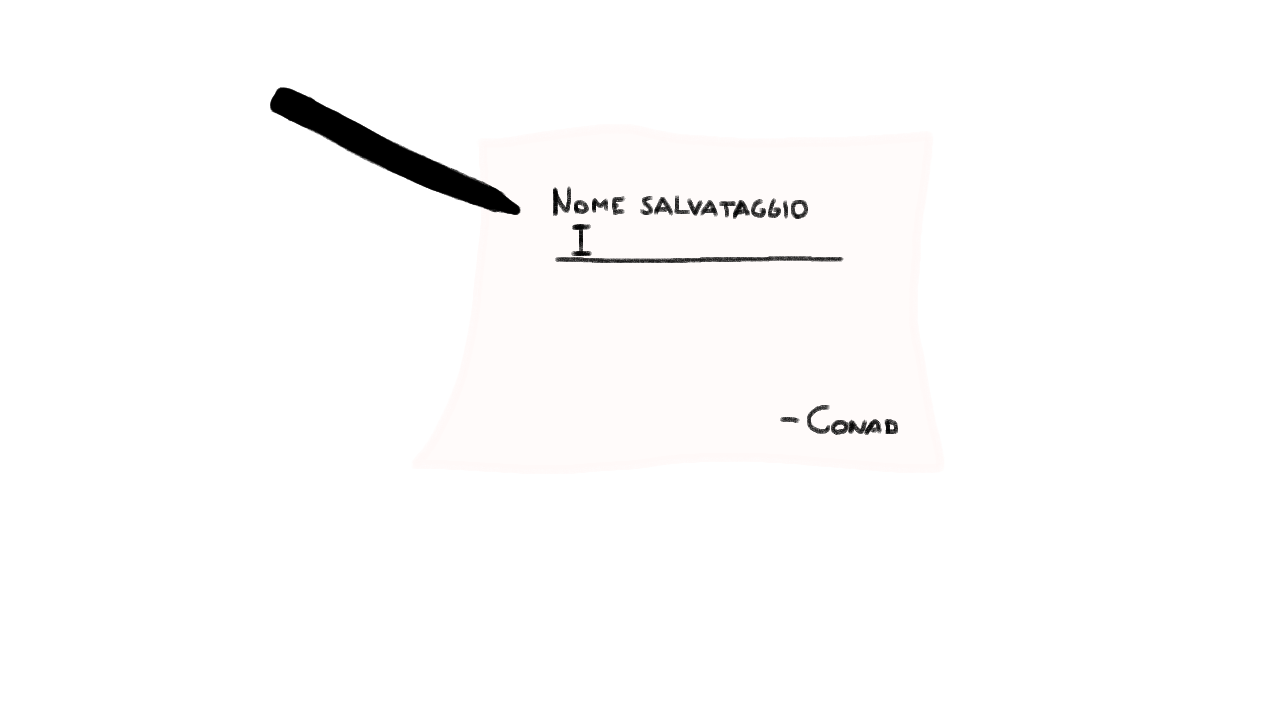
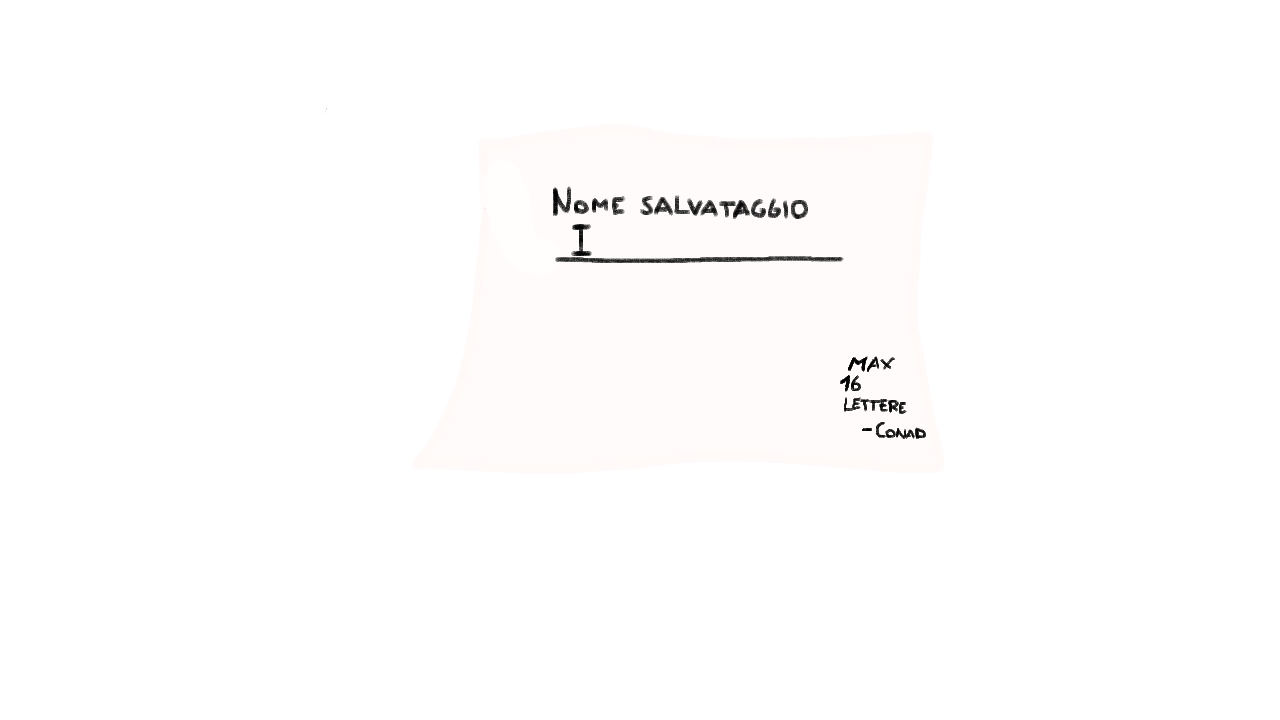
Inseriti salvataggi

Changed region(s): [[0.1875, 0.1222, 0.4062, 0.3056], [0.625, 0.4889, 0.7188, 0.6111]]

diff --git a/DetectiveConad/src/main/java/Modelli/Interfaccia.java b/DetectiveConad/src/main/java/Modelli/Interfaccia.java
@@ -16,6 +16,7 @@ public class Interfaccia extends javax.swing.JFrame {
     private ImageIcon[] caricamento;
     private ImageIcon menu,selettorePartita;
     private boolean creazioneNuovaPartita = false;
+    Clip audio;
     
     public Interfaccia(GestoreAzioni g) {
         initComponents();
@@ -23,6 +24,8 @@ public class Interfaccia extends javax.swing.JFrame {
         caricamento = new ImageIcon[4];
         menu = new ImageIcon("./risorse/immagini/menu/menu.png");
         selettorePartita = new ImageIcon("./risorse/immagini/menu/salvataggi.png");
+        
+        inizializzaInterfaccia();
         
         jButton2.addActionListener(g);
         jButton2.setActionCommand("ESCI");
@@ -54,6 +57,8 @@ public class Interfaccia extends javax.swing.JFrame {
         NuovaPartita = new javax.swing.JButton();
         CreaSalvataggioEsci = new javax.swing.JButton();
         IniziaPartita = new javax.swing.JButton();
+        NomePartita = new javax.swing.JTextField();
+        ErroreMaxCaratteri = new javax.swing.JLabel();
         CreaSalvataggioLabel = new javax.swing.JLabel();
         MediaLabel = new javax.swing.JLabel();
 
@@ -83,7 +88,6 @@ public class Interfaccia extends javax.swing.JFrame {
         SalvataggiEsci.setBorderPainted(false);
         SalvataggiEsci.setContentAreaFilled(false);
         SalvataggiEsci.setCursor(new java.awt.Cursor(java.awt.Cursor.DEFAULT_CURSOR));
-        SalvataggiEsci.setDisabledIcon(new ImageIcon("./risorse/immagini/menu/pulsante_piccolo_disabilitato.png"));
         SalvataggiEsci.setEnabled(false);
         SalvataggiEsci.setMargin(null);
         SalvataggiEsci.setMinimumSize(new java.awt.Dimension(44, 44));
@@ -94,7 +98,6 @@ public class Interfaccia extends javax.swing.JFrame {
         NuovaPartita.setBorder(null);
         NuovaPartita.setBorderPainted(false);
         NuovaPartita.setContentAreaFilled(false);
-        NuovaPartita.setDisabledIcon(new ImageIcon("./risorse/immagini/menu/pulsante_medio_disabilitato.png"));
         NuovaPartita.setEnabled(false);
         NuovaPartita.setMargin(null);
         NuovaPartita.setRolloverIcon(new ImageIcon("./risorse/immagini/menu/nuova_partita_highlited.png"));
@@ -105,7 +108,6 @@ public class Interfaccia extends javax.swing.JFrame {
         CreaSalvataggioEsci.setBorder(null);
         CreaSalvataggioEsci.setBorderPainted(false);
         CreaSalvataggioEsci.setContentAreaFilled(false);
-        CreaSalvataggioEsci.setDisabledIcon(new ImageIcon("./risorse/immagini/menu/pulsante_piccolo_disabilitato.png"));
         CreaSalvataggioEsci.setEnabled(false);
         CreaSalvataggioEsci.setMargin(null);
         CreaSalvataggioEsci.setRolloverIcon(new ImageIcon("./risorse/immagini/menu/crea_salvataggio_uscita_highlited.png"));
@@ -115,10 +117,26 @@ public class Interfaccia extends javax.swing.JFrame {
         IniziaPartita.setBorder(null);
         IniziaPartita.setBorderPainted(false);
         IniziaPartita.setContentAreaFilled(false);
-        IniziaPartita.setDisabledIcon(new ImageIcon("./risorse/immagini/menu/pulsante_medio_disabilitato.png"));
         IniziaPartita.setEnabled(false);
         IniziaPartita.setRolloverIcon(new ImageIcon("./risorse/immagini/menu/inizia_partita_highlited.png"));
         jPanel1.add(IniziaPartita, new org.netbeans.lib.awtextra.AbsoluteConstraints(510, 300, 367, 81));
+
+        NomePartita.setBackground(new java.awt.Color(255, 251, 250));
+        NomePartita.setColumns(16);
+        NomePartita.setFont(new java.awt.Font("Segoe Script", 1, 18)); // NOI18N
+        NomePartita.setHorizontalAlignment(javax.swing.JTextField.LEFT);
+        NomePartita.setToolTipText("");
+        NomePartita.setAutoscrolls(false);
+        NomePartita.setBorder(null);
+        NomePartita.setCursor(new java.awt.Cursor(java.awt.Cursor.TEXT_CURSOR));
+        NomePartita.setEnabled(false);
+        NomePartita.setMargin(null);
+        NomePartita.setName(""); // NOI18N
+        jPanel1.add(NomePartita, new org.netbeans.lib.awtextra.AbsoluteConstraints(610, 220, 210, 35));
+
+        ErroreMaxCaratteri.setIcon(new ImageIcon("./risorse/immagini/menu/errore_max_caratteri.png"));
+        ErroreMaxCaratteri.setEnabled(false);
+        jPanel1.add(ErroreMaxCaratteri, new org.netbeans.lib.awtextra.AbsoluteConstraints(580, 270, 270, 50));
 
         CreaSalvataggioLabel.setIcon(new ImageIcon("./risorse/immagini/menu/crea_salvataggio.png"));
         CreaSalvataggioLabel.setDisabledIcon(new ImageIcon("./risorse/immagini/menu/crea_salvataggio_disabilitato.png"));
@@ -134,8 +152,10 @@ public class Interfaccia extends javax.swing.JFrame {
     // Variables declaration - do not modify//GEN-BEGIN:variables
     private javax.swing.JButton CreaSalvataggioEsci;
     private javax.swing.JLabel CreaSalvataggioLabel;
+    private javax.swing.JLabel ErroreMaxCaratteri;
     private javax.swing.JButton IniziaPartita;
     private javax.swing.JLabel MediaLabel;
+    private javax.swing.JTextField NomePartita;
     private javax.swing.JButton NuovaPartita;
     private javax.swing.JButton SalvataggiEsci;
     private javax.swing.JButton jButton2;
@@ -160,9 +180,9 @@ public class Interfaccia extends javax.swing.JFrame {
         AudioInputStream audioStream;
         try {
             audioStream = AudioSystem.getAudioInputStream(fileAudio);
-            Clip clip = AudioSystem.getClip();
-            clip.open(audioStream);
-            clip.start();
+            audio = AudioSystem.getClip();
+            audio.open(audioStream);
+            audio.start();
         } catch (UnsupportedAudioFileException ex) {
             Logger.getLogger(Interfaccia.class.getName()).log(Level.SEVERE, null, ex);
         } catch (LineUnavailableException ex) {
@@ -170,6 +190,10 @@ public class Interfaccia extends javax.swing.JFrame {
         } catch (IOException ex) {
             Logger.getLogger(Interfaccia.class.getName()).log(Level.SEVERE, null, ex);
         }
+    }
+    
+    public void stoppaAudio(){
+        audio.stop();
     }
     
     public void creaNuovaPartita(){
@@ -246,6 +270,7 @@ public class Interfaccia extends javax.swing.JFrame {
             }
             introduzione[i] = new ImageIcon("./risorse/immagini/iniziogioco/image" + prefisso + i + ".jpg");
         }
+        stoppaAudio();
         riproduciAudio("introduzione");
         for (int i = 0; i <= 924; i++) {
             MediaLabel.setIcon(introduzione[i]);
@@ -291,12 +316,16 @@ public class Interfaccia extends javax.swing.JFrame {
         disattivaPulsanti();
         SalvataggiEsci.setEnabled(true);
         NuovaPartita.setEnabled(true);
+        SalvataggiEsci.setVisible(true);
+        NuovaPartita.setVisible(true);
         MediaLabel.setIcon(selettorePartita);
     }
     
     public void esciDaSelettorePartita(){
         SalvataggiEsci.setEnabled(false);
         NuovaPartita.setEnabled(false);
+        SalvataggiEsci.setVisible(false);
+        NuovaPartita.setVisible(false);
         esciDaCreatorePartita();
         inizializzaMenu();
     }
@@ -304,6 +333,8 @@ public class Interfaccia extends javax.swing.JFrame {
     public void chiudiSelettorePartita(){
         SalvataggiEsci.setEnabled(false);
         NuovaPartita.setEnabled(false);
+        SalvataggiEsci.setVisible(false);
+        NuovaPartita.setVisible(false);
         esciDaCreatorePartita();
     }
     
@@ -311,12 +342,51 @@ public class Interfaccia extends javax.swing.JFrame {
         CreaSalvataggioLabel.setEnabled(true);
         CreaSalvataggioEsci.setEnabled(true);
         IniziaPartita.setEnabled(true);
+        NomePartita.setEnabled(true);
+        CreaSalvataggioLabel.setVisible(true);
+        CreaSalvataggioEsci.setVisible(true);
+        IniziaPartita.setVisible(true);
+        NomePartita.setVisible(true);
     }
     
     public void esciDaCreatorePartita(){
         CreaSalvataggioLabel.setEnabled(false);
         CreaSalvataggioEsci.setEnabled(false);
         IniziaPartita.setEnabled(false);
+        NomePartita.setEnabled(false);
+        ErroreMaxCaratteri.setEnabled(false);
+        CreaSalvataggioLabel.setVisible(false);
+        CreaSalvataggioEsci.setVisible(false);
+        IniziaPartita.setVisible(false);
+        NomePartita.setVisible(false);
+        ErroreMaxCaratteri.setVisible(false);
     }
     
+    public void inizializzaInterfaccia(){
+        SalvataggiEsci.setEnabled(false);
+        NuovaPartita.setEnabled(false);
+        SalvataggiEsci.setVisible(false);
+        NuovaPartita.setVisible(false);
+        CreaSalvataggioLabel.setEnabled(false);
+        CreaSalvataggioEsci.setEnabled(false);
+        IniziaPartita.setEnabled(false);
+        NomePartita.setEnabled(false);
+        CreaSalvataggioLabel.setVisible(false);
+        CreaSalvataggioEsci.setVisible(false);
+        IniziaPartita.setVisible(false);
+        NomePartita.setVisible(false);
+        ErroreMaxCaratteri.setEnabled(false);
+        ErroreMaxCaratteri.setVisible(false);
+    }
+    
+    public boolean controllaNomePartita(){
+        if(NomePartita.getText().length() > 16){
+            ErroreMaxCaratteri.setEnabled(true);
+            ErroreMaxCaratteri.setVisible(true);
+            return false;
+        }
+        else{
+            return true;
+        }
+    }
 }

diff --git a/DetectiveConad/src/main/java/Modelli/Eseguibile.java b/DetectiveConad/src/main/java/Modelli/Eseguibile.java
@@ -14,7 +14,7 @@ public class Eseguibile {
     public Eseguibile(){
         interfaccia.caricaImmaginiCaricamento();
         interfaccia.riproduciIntro();
-        //interfaccia.riproduciAudio("menu");
+        interfaccia.riproduciAudio("menu");
         interfaccia.inizializzaMenu();
     }
     
@@ -60,7 +60,10 @@ public class Eseguibile {
                     db.inserisciPartita(interfaccia.getNomePartita());
                     interfaccia.disabilitaChiediNomePartita();
                     dialoghi.prelevaTesti();*/
-                    interfaccia.creaNuovaPartita();
+                    if(interfaccia.controllaNomePartita() == true){
+                        interfaccia.creaNuovaPartita();
+                    }
+                    
                     break;
                 default:
                     break;
